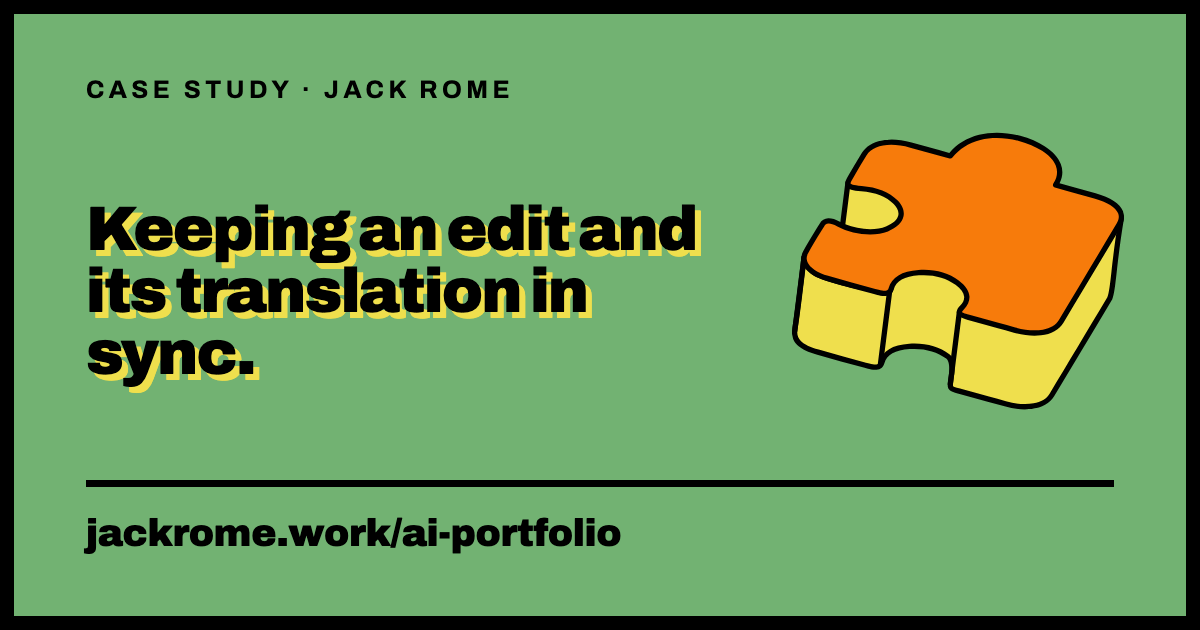
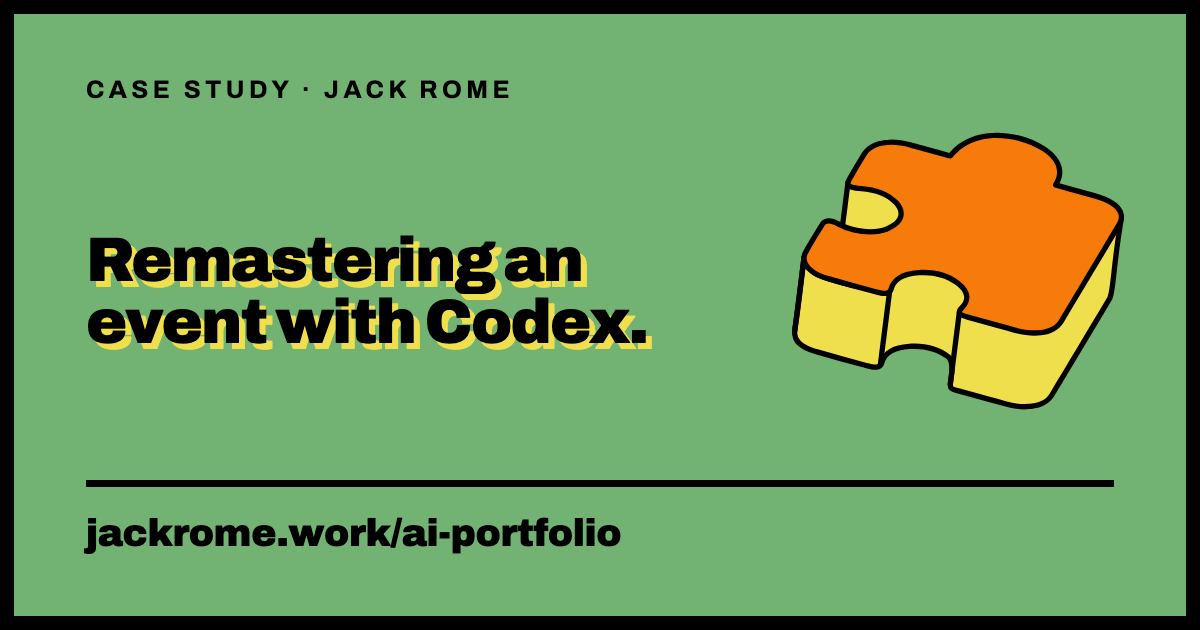
Extend the remaster case study with the second installment

Changed region(s): [[0.0617, 0.3016, 0.5858, 0.6333]]

diff --git a/case-studies/event-remaster-and-language-conform.html b/case-studies/event-remaster-and-language-conform.html
@@ -4,8 +4,8 @@
   <meta charset="UTF-8">
   <meta name="viewport" content="width=device-width, initial-scale=1.0">
 
-  <title>Keeping an edit and its translation in sync | Case study | Jack Rome</title>
-  <meta name="description" content="Mapping a recorded-event remaster across changing timelines, then preparing an existing Spanish recording for review against the finished edit.">
+  <title>Remastering an event with Codex | Case study | Jack Rome</title>
+  <meta name="description" content="Two installments of a recorded-event remaster: editable graphics, timing maps, and checks that had to preserve the editor's deliberate exceptions.">
   <link rel="canonical" href="https://jackrome.work/case-studies/event-remaster-and-language-conform">
 
   <!-- Link previews. Same rules as every other page: og:image absolute,
@@ -15,17 +15,17 @@
   <meta property="og:type" content="article">
   <meta property="og:site_name" content="Jack Rome">
   <meta property="og:url" content="https://jackrome.work/case-studies/event-remaster-and-language-conform">
-  <meta property="og:title" content="Keeping an edit and its translation in sync.">
-  <meta property="og:description" content="Mapping a recorded-event remaster across changing timelines, then preparing an existing Spanish recording for review against the finished edit.">
+  <meta property="og:title" content="Remastering an event with Codex.">
+  <meta property="og:description" content="Two installments of a recorded-event remaster: editable graphics, timing maps, and checks that had to preserve the editor's deliberate exceptions.">
   <meta property="og:image" content="https://jackrome.work/assets/img/og-case-event-remaster-and-language-conform.png">
   <meta property="og:image:type" content="image/png">
   <meta property="og:image:width" content="1200">
   <meta property="og:image:height" content="630">
-  <meta property="og:image:alt" content="Keeping an edit and its translation in sync. A case study by Jack Rome.">
+  <meta property="og:image:alt" content="Remastering an event with Codex. A case study by Jack Rome.">
 
   <meta name="twitter:card" content="summary_large_image">
-  <meta name="twitter:title" content="Keeping an edit and its translation in sync.">
-  <meta name="twitter:description" content="Mapping a recorded-event remaster across changing timelines, then preparing an existing Spanish recording for review against the finished edit.">
+  <meta name="twitter:title" content="Remastering an event with Codex.">
+  <meta name="twitter:description" content="Two installments of a recorded-event remaster: editable graphics, timing maps, and checks that had to preserve the editor's deliberate exceptions.">
   <meta name="twitter:image" content="https://jackrome.work/assets/img/og-case-event-remaster-and-language-conform.png">
 
   <link rel="icon" type="image/svg+xml" href="/assets/puzzle-single.svg">
@@ -58,29 +58,29 @@
   <header class="hero">
     <div class="hero-inner">
       <p class="hero-eyebrow ws-overline"><a class="hero-eyebrow-link" href="/ai-portfolio">&larr; AI Portfolio</a> &middot; Case study</p>
-      <h1 class="hero-title">Keeping an edit and its translation in sync.</h1>
-      <p class="hero-sub">I worked with Codex on a recorded-event remaster, then used a timing map to fit an existing Spanish recording to the revised edit.</p>
+      <h1 class="hero-title">Remastering an event with Codex.</h1>
+      <p class="hero-sub">I worked with Codex on graphics and timeline automation for two installments of a recorded event. The workflow had to keep up with changes I was making by hand.</p>
     </div>
   </header>
 
   <main class="page page-narrow" id="main">
     <nav class="page-contents" aria-label="On this page">
       <span class="page-contents-label">On this page</span>
-      <a href="#editTitle">The edit</a>
+      <a href="#editTitle">Part 1</a>
       <a href="#clocksTitle">Three timelines</a>
-      <a href="#methodTitle">The method</a>
-      <a href="#correctionTitle">The corrections</a>
-      <a href="#resultTitle">What we checked</a>
+      <a href="#secondRunTitle">Part 2</a>
+      <a href="#exceptionsTitle">Approved exceptions</a>
+      <a href="#resultTitle">Results</a>
       <a href="#openTitle">Still open</a>
     </nav>
 
     <section class="section" aria-labelledby="editTitle">
       <div class="section-header">
-        <h2 class="section-title" id="editTitle">It started with the graphics</h2>
+        <h2 class="section-title" id="editTitle">Part 1: keeping the timing traceable</h2>
         <div class="section-rule" aria-hidden="true"></div>
       </div>
       <div class="prose prose-lg">
-        <p>I needed information cards for a long recorded event. I had the copy in a spreadsheet and an existing animation to work from. That grew into a remaster with new graphics, still images, removals, and audio repairs.</p>
+        <p>The first installment began with information cards. I had the copy in a spreadsheet and an existing animation to work from. The job grew to include still images, removals, and audio repairs.</p>
         <p>There was also a Spanish recording made against the earlier English version. Every change to the edit could affect where that translation belonged.</p>
         <p>I had mostly deleted things and left gaps, but there were a few moments where I had to shift things, and some ended up extending a bit. Keeping the gaps was no longer enough to preserve the original timing.</p>
       </div>
@@ -147,7 +147,7 @@
         <div class="section-rule" aria-hidden="true"></div>
       </div>
       <div class="prose prose-lg">
-        <p>Codex turned the editing notes into a cue sheet with timings, assets, and review states. We used whole frames at the sequence's verified 25 fps. I reviewed the planned actions before each editing pass, and the saved project was checked afterward.</p>
+        <p>Codex turned the editing notes into a cue sheet, with timing recorded in integer frames at the sequence's verified 25 fps. I reviewed the planned actions before each editing pass, and the saved project was checked afterward.</p>
         <p>The initial pass placed 48 visual inserts: 19 information cards and 29 still images. Removals first left gaps. Once I had finished my refinements, 4 selected gaps were closed from the end backward, with the other sequences protected.</p>
         <p>For the Spanish audio, the map selected 7 retained source segments and placed them in the final edit, with 6 intentional silent intervals. Each segment kept its playback speed. The original recording stayed on a muted track, and the conformed audio went on a separate track for review.</p>
         <p>We also made a bilingual timing-review document to help locate passages. Its speech-recognition text could guide listening, but still needed checking against the audio.</p>
@@ -160,34 +160,120 @@
         <div class="section-rule" aria-hidden="true"></div>
       </div>
       <div class="prose prose-lg">
-        <p>Moving the clips hadn't settled the transitions. Their positions were stored separately and needed a correction pass. The saved report records 133 transitions moved and 12 kept in place.</p>
-        <p>The graphics delivery also needed a correction in how it was described. We had rendered cards and structured copy data, but the promised editable After Effects builder was missing. That remained a limitation of this delivery.</p>
-        <p>An English transcript exported before the final timing changes was stale. I re-transcribed the finished English sequence so the review material would follow the edit we were actually using.</p>
+        <p>Moving the clips hadn't settled the transitions. Their positions were stored separately and needed a correction pass. We also had to refresh the English transcript after the final timing changes.</p>
+        <p>The first graphics delivery contained rendered cards and structured copy data, but the promised editable After Effects builder was missing. That became one of the jobs for the second installment.</p>
       </div>
+    </section>
+
+    <section class="section" aria-labelledby="secondRunTitle">
+      <div class="section-header">
+        <h2 class="section-title" id="secondRunTitle">Part 2: rebuilding the editable system</h2>
+        <div class="section-rule" aria-hidden="true"></div>
+      </div>
+      <div class="prose prose-lg">
+        <p>The next installment needed 35 information cards and 39 supplied still images. I was still reframing photos and adjusting transitions while the automation work was underway, so each pass needed to start from the current saved edit.</p>
+        <p>We rebuilt the graphics system from the approved renders and previews. I approved 3 prototypes before the batch: a long card, a biography, and a short card. Their sampled transparency bounds matched the references, with text-line endpoints no more than 2 pixels apart.</p>
+        <p>This time, the delivery included the editable After Effects project, the builder, and structured text data, alongside 35 transparent renders and 35 previews. New types of layout would still need their own prototype review.</p>
+        <p>I set the treatment for the photos by hand. Codex continued that pattern for the remaining stills: replace the picture, keep the program audio, and use the demonstrated 30-frame transitions.</p>
+        <p>A video contribution inside a nested sequence also needed repair. Two broad attempts failed their checks and stopped without saving. A narrower repair fixed the picture join and restored the known transitions, then checked the saved result.</p>
+      </div>
+    </section>
+
+    <section class="section" aria-labelledby="exceptionsTitle">
+      <div class="section-header">
+        <h2 class="section-title" id="exceptionsTitle">The two cards I had moved</h2>
+        <div class="section-rule" aria-hidden="true"></div>
+      </div>
+      <div class="prose prose-lg">
+        <p>The final audit reset all 35 cards to the default framing. I had deliberately moved 2 of them because faces were low in the frame. Making those cards match the others undid an editing decision.</p>
+        <p>After I pointed it out, their exact approved offsets were restored and checked in the saved project. The check needed to account for those exceptions, and the rule it had been using didn't.</p>
+      </div>
+
+      <figure class="edit-diagram framing-diagram" aria-labelledby="framingDiagramTitle">
+        <figcaption id="framingDiagramTitle">35 cards, with 2 deliberate exceptions</figcaption>
+        <div class="framing-origin">Check the approved framing for each card</div>
+        <div class="framing-branches">
+          <div class="framing-branch">
+            <h3><strong>33</strong> Default framing</h3>
+            <div class="framing-cards" aria-hidden="true">
+              <span></span>
+              <span></span>
+              <span></span>
+              <span></span>
+              <span></span>
+              <span></span>
+              <span></span>
+              <span></span>
+              <span></span>
+              <span></span>
+              <span></span>
+              <span></span>
+              <span></span>
+              <span></span>
+              <span></span>
+              <span></span>
+              <span></span>
+              <span></span>
+              <span></span>
+              <span></span>
+              <span></span>
+              <span></span>
+              <span></span>
+              <span></span>
+              <span></span>
+              <span></span>
+              <span></span>
+              <span></span>
+              <span></span>
+              <span></span>
+              <span></span>
+              <span></span>
+              <span></span>
+            </div>
+            <p>Keep the shared scale and position.</p>
+          </div>
+          <div class="framing-branch framing-exceptions">
+            <h3><strong>2</strong> Approved exceptions</h3>
+            <div class="framing-cards" aria-hidden="true">
+              <span></span>
+              <span></span>
+            </div>
+            <p>Keep the offsets I chose to leave faces visible.</p>
+          </div>
+        </div>
+        <p class="diagram-note">Schematic of the corrected framing. The 2 positions were restored after the audit had reset them. A reusable exception registry is a proposed next step.</p>
+      </figure>
     </section>
 
     <section class="section" aria-labelledby="resultTitle">
       <div class="section-header">
-        <h2 class="section-title" id="resultTitle">What the saved work supports</h2>
+        <h2 class="section-title" id="resultTitle">What each installment produced</h2>
         <div class="section-rule" aria-hidden="true"></div>
       </div>
-      <div class="prose prose-lg">
-        <p>The result was a remastered installment and a Spanish audio version prepared for listening review. I made the editorial refinements and handled the exports. Codex supplied the placement scripts, timing map, and verification tools.</p>
-        <p>Preparing this case study included recounting the card files and data: 20 of each, including a later short card. Comparing saved snapshots from the gap-closing pass confirmed that 6 other sequences were unchanged.</p>
-        <p>The audio file matched the sample count planned by the map, and all 6 intended silence windows contained zero-valued samples. Its file hash also matched the saved verification record.</p>
-        <p>These checks combine saved production reports with later inspection of retained files. They don't amount to a fresh playback review of the whole project.</p>
+      <div class="case-results">
+        <div>
+          <h3>Part 1</h3>
+          <p>20 rendered information cards, including a later short card. The initial automated pass placed 19 cards and 29 stills.</p>
+          <p>The Spanish audio file matched its planned sample count, with zero-valued samples in all 6 intended silence windows. The saved listening checklist and 20 translated-card reviews were still open.</p>
+        </div>
+        <div>
+          <h3>Part 2</h3>
+          <p>An editable graphics system with 35 renders and previews. All 39 stills were integrated through my manual work and the automated continuation. Final verification matched 10 protected sequences to their reference snapshots.</p>
+          <p>I exported the locked English master and reported that it was broadcast. The export's metadata and stream analysis matched the technical delivery format and reported no errors.</p>
+        </div>
       </div>
+      <p class="diagram-note">This account draws on the two exhibit packages and their saved reports and artifact checks. It does not add an independent full-playback review of either installment or independent observation of the broadcast.</p>
     </section>
 
     <section class="section" aria-labelledby="openTitle">
       <div class="section-header">
-        <h2 class="section-title" id="openTitle">The listening review still matters</h2>
+        <h2 class="section-title" id="openTitle">What still needs work</h2>
         <div class="section-rule" aria-hidden="true"></div>
       </div>
       <div class="prose prose-lg">
-        <p>The saved checklist still had listening and human approval open. Matching the file's duration can't tell us whether a phrase ends naturally or whether the translation says what it should.</p>
-        <p>The translated-card workbook also had 20 rows pending review. It was preparation for a graphics batch, with no completed translated renders established in this record.</p>
-        <p>The work produced separate workflow specifications for remaster editing and audio conforming. Keeping the audio workflow focused means graphics and captions get their own review. If the finished edit changes again, the timing map needs to be rebuilt and checked against it.</p>
+        <p>Part 2's Spanish conform is still open. Part 1 produced a technically checked review file, but its saved record also stops before listening approval. The second run doesn't establish that the language workflow has been tested end to end again.</p>
+        <p>The next improvement is to record approved exceptions before running a check: which card changed, the exact setting, why I changed it, and the saved version where I approved it. Once I say an edit is ready to lock, any further change needs my go.</p>
+        <p>The reusable workflow documents carry those rules forward. Graphics, captions, and language review keep their own approval steps, and a changed final edit needs a new timing map.</p>
       </div>
     </section>
 

diff --git a/css/site.css b/css/site.css
@@ -1023,7 +1023,47 @@ ul.offer-grid {
   font-size: var(--fs-small);
 }
 .clock-key b { margin-right: var(--space-1); }
+.framing-origin {
+  padding: var(--space-3);
+  border: var(--rule);
+  background: var(--ws-blue);
+  color: var(--ws-paper);
+  text-align: center;
+  font-weight: var(--fw-bold);
+}
+.framing-branches {
+  display: grid;
+  grid-template-columns: repeat(2, minmax(0, 1fr));
+  gap: var(--space-4);
+  padding-top: var(--space-5);
+}
+.framing-branch {
+  position: relative;
+  border: var(--rule);
+  padding: var(--space-4);
+  background: var(--ws-paper);
+}
+.framing-branch::before {
+  content: "";
+  position: absolute;
+  left: 50%;
+  bottom: 100%;
+  height: var(--space-5);
+  border-left: var(--rule);
+}
+.framing-branch h3 { font-size: var(--fs-body); margin: 0 0 var(--space-4); }
+.framing-branch h3 strong { display: block; font-size: var(--fs-h2); }
+.framing-branch p { font-size: var(--fs-small); margin: var(--space-4) 0 0; }
+.framing-exceptions { background: var(--ws-yellow); }
+.framing-cards { display: grid; grid-template-columns: repeat(11, minmax(0, 1fr)); gap: 3px; }
+.framing-cards span { aspect-ratio: 4 / 3; background: var(--ws-blue); border: 1px solid var(--outline); }
+.framing-exceptions .framing-cards span { background: var(--ws-orange); }
+.case-results { display: grid; grid-template-columns: repeat(2, minmax(0, 1fr)); gap: var(--space-5); }
+.case-results > div { border-top: var(--rule-heavy); padding-top: var(--space-4); }
+.case-results h3 { margin: 0 0 var(--space-3); }
 @media (max-width: 600px) {
+  .framing-branches, .case-results { grid-template-columns: 1fr; }
+  .framing-branch::before { display: none; }
   .edit-stages { grid-template-columns: 1fr; }
   .edit-track { grid-template-columns: 1fr repeat(3, 1.3fr); }
   .edit-track span { padding: var(--space-2) var(--space-1); }

diff --git a/js/case-studies.js b/js/case-studies.js
@@ -45,12 +45,12 @@ const CASE_STUDIES = [
   },
   {
     slug: "event-remaster-and-language-conform",
-    title: "Keeping an edit and its translation in sync",
+    title: "Remastering an event with Codex",
     meta: "Video post-production, 2026",
     tags: ["Scripting", "Verification", "Video post-production", "Safety design"],
-    lead: "I worked with Codex on a remaster, then mapped an existing Spanish recording to the revised edit.",
-    summary: "The job grew from information cards into visual placement, selective gap closure, and audio conforming. A map kept the original recording, the revised working edit, and the final timeline connected.",
-    result: "Saved reports and retained files support 48 initial visual inserts, 4 selected gap closures, and a technically checked Spanish audio file. Listening approval and translated-card review remained open in the record."
+    lead: "I worked with Codex on two installments of a remaster while continuing to make editing decisions by hand.",
+    summary: "Part 1 mapped an existing Spanish recording to a revised timeline. Part 2 rebuilt the editable graphics system and exposed a mistake in the final check: it reset two card positions I had changed on purpose.",
+    result: "The two positions were restored. Part 2 produced an editable graphics project and 35 card renders, and I reported its English broadcast. Its Spanish conform remains open; Part 1's saved listening approval was also unfinished."
   }
 ];
 

diff --git a/tools/og/card-case-event-remaster-and-language-conform.html b/tools/og/card-case-event-remaster-and-language-conform.html
@@ -55,7 +55,7 @@
     <img class="puzzle" src="../../assets/puzzle-single.svg" alt="">
     <div class="content">
       <p class="eyebrow">Case study &middot; Jack Rome</p>
-      <h1 class="title">Keeping an edit and its translation in sync.</h1>
+      <h1 class="title">Remastering an event with Codex.</h1>
       <div class="foot">
         <span class="url">jackrome.work/ai-portfolio</span>
       </div>

diff --git a/HANDOFF.md b/HANDOFF.md
@@ -18,30 +18,43 @@ context, not permission to perform unfinished work. Do not include private mater
 
 ## Current checkpoint: 2026-09-12, Codex
 
-Jack approved hiding the artwork on narrow screens so the welcome leads directly
-into the rooms. Below 800px, the complete figure is hidden, including the caption,
-puzzle marks, and pause control. "Choose a room" and its unused styles are removed.
-At 800px and wider, the existing artwork stays beside the room list. The JavaScript
-and image assets are unchanged. This is a layout change, not an image-download
-optimization. CLAUDE.md, MOTION.md, and README.md record the new layout decision.
+Jack supplied the Part 2 follow-up for the second case study. The local draft now
+covers both installments as "Remastering an event with Codex," keeping its existing
+URL. Part 1's timing story remains; Part 2 adds the editable graphics rebuild,
+manual photo treatment continued by automation, guarded repair, and the audit
+that mistakenly reset two deliberate card offsets before they were restored.
 
-Verified locally at measured 390px and 799px: figure display none, no space reserved,
-room links immediately after the welcome, no shortcut. At 800px the figure is visible
-beside the rooms and animation is enabled. All six room links remain available;
-no horizontal overflow at the checked widths. Inspected phone and wider screenshots,
-reset the temporary viewport override, and passed diff whitespace checks.
+The page and portfolio card distinguish each installment's results and open work.
+A new schematic shows 33 default card positions and 2 approved exceptions. The
+share image and its source match the new title. Lasting boundaries are recorded
+in CLAUDE.md: the exception registry is proposed, the English broadcast is
+Jack-reported, Part 2 Spanish remains open, and Part 1's saved listening and
+translated-card approvals remain unfinished. The stale agreement claim from the
+follow-up is omitted. The added prose was drafted from the exhibit evidence and
+needs Jack's voice review; it is not a quotation from his source conversation.
 
-Intake HEAD was 01b316a on main. This checkpoint accompanies the local simplified
-mobile arrival save point. No push or deployment. Preview: http://127.0.0.1:56064.
-Port 8642 remains available for Jack's first case-study review.
+Verified local markup, unique anchors, local references, JavaScript syntax,
+whitespace, and canonical token parity. The union of both exhibits' excluded-term
+lists passed against the case, portfolio entry, and share-image source. The first
+case, arrival layout and motion, handoff demo, Production, About, and creative
+catalogue remain unchanged. At measured 390px the diagram and results stack; at 782px and
+1280px the layout has no horizontal overflow. Inspected the diagram, desktop
+results, and 1200 x 630 share image. The portfolio card reaches the right page,
+and the Results anchor works. The temporary phone harness and QA tab were removed.
+A harness-session MutationObserver error did not recur after page reload; no
+matching observer code exists in the case page's scripts.
 
-46b6c55 contains the autonomous artwork, handoff demo revisions, and second case
-study. Its handoff records their broader checks and evidence limits. The two case
-studies remain under Jack's review; neither was changed in this update.
+Intake HEAD was e0939e4 on main. This checkpoint accompanies the local follow-up
+save point. No push or deployment. Preview: http://127.0.0.1:56064, with the new
+material at /case-studies/event-remaster-and-language-conform#secondRunTitle.
+Port 8642 remains available for Jack's separate first-case review.
 
 The pre-existing separate-exhibit handoff section remains unstaged. The 18 unrelated
 untracked files are untouched: eight Substack images, assets/puzzle-trio.svg, and
-nine files under tools/substack/. Private exhibits remain ignored.
+nine files under tools/substack/. Private exhibits and working controls remain
+ignored and uncommitted. Jack also updated assets/img/wayspace-straight.svg during
+this turn to add yellow shadow on the W. The refreshed arrival displays it. His
+asset edit is preserved as-is and remains unstaged outside this case-study commit.
 
-Next: continue Jack's local review. Publish only after his explicit go, then verify
-the deployed revision and host-specific routing, discovery files, and asset headers.
+Next: continue Jack's review of the local case studies. Publishing still requires
+his explicit go; after that, verify the deployed revision and host-specific routes.

diff --git a/CLAUDE.md b/CLAUDE.md
@@ -75,15 +75,22 @@ These decisions from Jack supersede broader or dated wording below.
   "Spoken aloud using Wispr Flow." Its surrounding explanation speaks as Jack:
   "My request" and "our decisions." The recorded agent-to-agent note still uses
   Jack's name to orient its recipient.
-- The second case study, event-remaster-and-language-conform, is a local draft
-  based on the private exhibit. Its three-timeline schematic distinguishes the
-  original recording, the revised edit with gaps, and the final edit. Manual
-  extensions changed the middle timeline. Preserve the limits: listening review
-  and translated-card review remained open in the saved record; the original
-  graphics delivery lacked the promised editable After Effects builder. Saved
-  production reports and later artifact checks have different scopes. No client
-  media, identifiers, private ledgers, or source dialogue belong in the public page.
-  The first case study remains unchanged during Jack's separate review.
+- The second case study keeps the event-remaster-and-language-conform URL and now
+  covers both installments as "Remastering an event with Codex." Part 1's timing
+  map and Spanish review file remain distinct from Part 2's editable graphics
+  rebuild, approved photo treatment, guarded nested-media repair, and restored
+  framing exceptions. The original missing builder belongs to Part 1; the rebuilt
+  editable system belongs to Part 2. Do not collapse those into one delivery.
+- Its two diagrams use generic geometry: three timing coordinates, then 33 default
+  card positions plus 2 approved exceptions. The latter shows corrected framing;
+  a prospective exception registry remains an improvement, not a delivered feature.
+  The follow-up's illustrative pseudocode is not a shipped implementation excerpt.
+- Part 2's English broadcast is Jack-reported. Its Spanish conform is open; Part 1's
+  saved record still stops before listening approval and translated-card approval.
+  Metadata, stream analysis, and saved-state checks are not independent full playback.
+  No client media, identifiers, private ledgers, or source dialogue belong in this
+  public case. Omit the follow-up package's stale "withheld by agreement" line.
+  The first, two-track case study remains unchanged during Jack's separate review.
 - These additions await Jack's review and explicit publication go. Keep private
   portfolio materials out of the example and preserve the existing tool selection.
 
